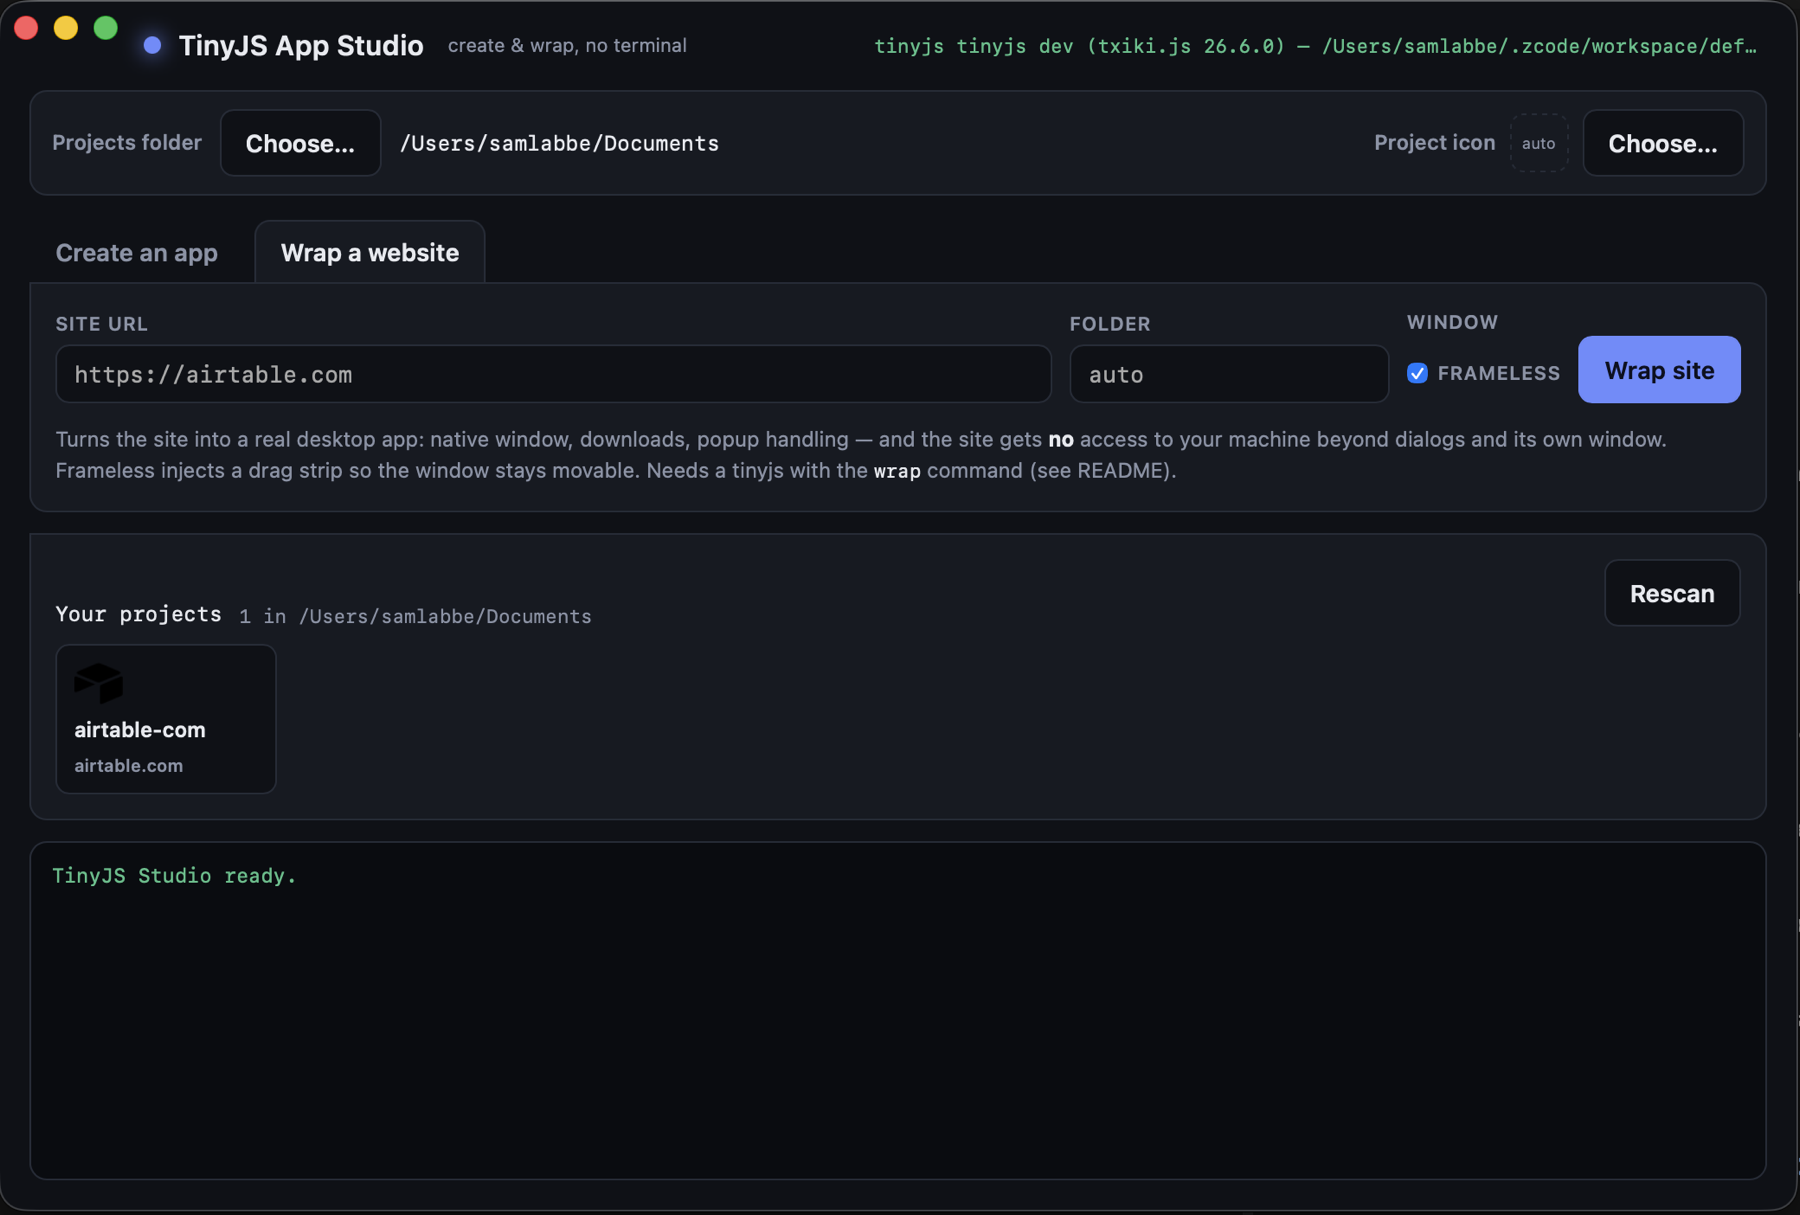
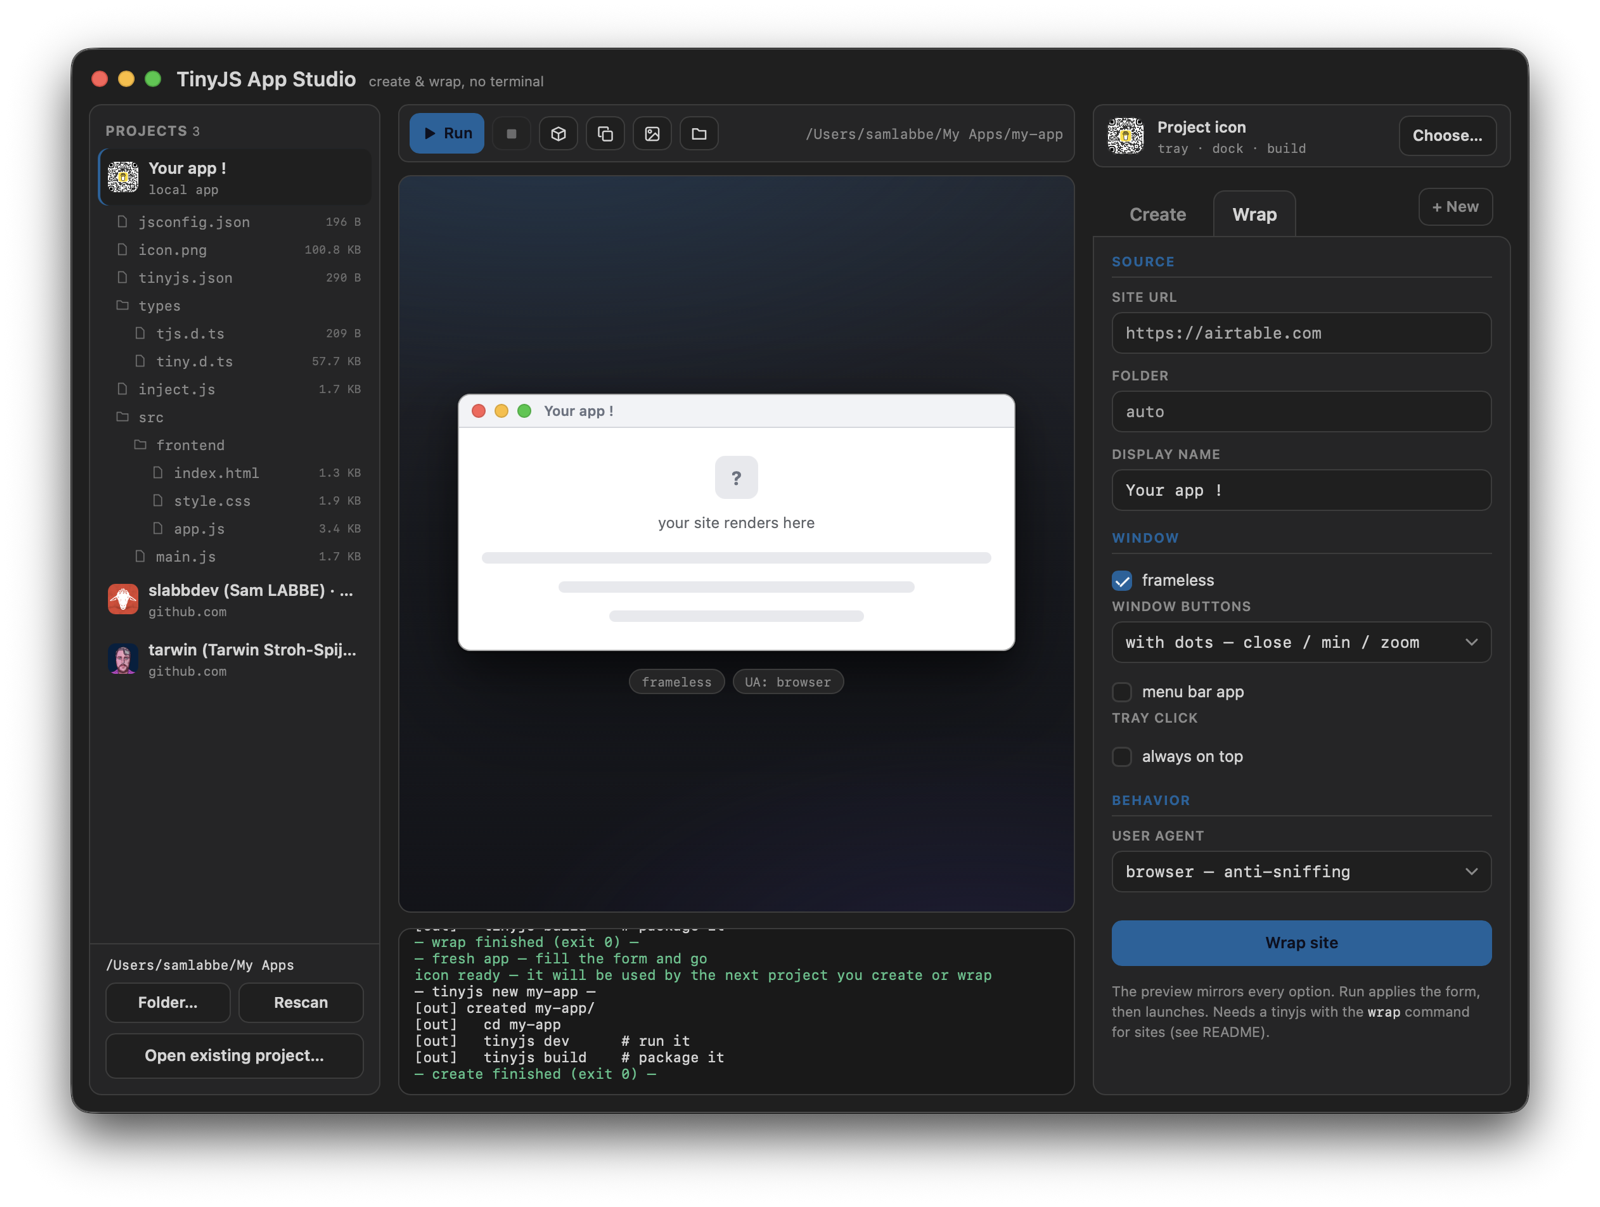
README gallery — 8 captures: wrap preview, live panel, dropdown over GitHub, real wrapped windows, CodeMirror editor, image offcanvas, iPhone mode

diff --git a/README.md b/README.md
@@ -15,8 +15,47 @@ terminal. Built **with** tinyjs itself, which makes it the two things at once:
 Built by [@slabbdev](https://github.com/slabbdev). Not an official tinyjs
 project — just what its author considers the demo tinyjs deserved. 🙂
 
-![TinyJS App Studio — the Wrap a website tab, with a wrapped project in the
-projects strip](screenshot.png)
+![TinyJS App Studio — projects sidebar, live preview, config inspector](screenshot.png)
+
+## See it
+
+**Wrap any site.** Paste a URL, pick your window modes, watch the preview
+mirror every option — then generate a ~6 MB desktop app with its own icon,
+per-origin API gate, downloads and popup handling.
+
+![Wrapping a site — the dropdown panel preview](screenshots/02-wrap-panel-preview.png)
+
+**Menu-bar apps, live.** Menu-bar mode puts a tray icon in the system menu
+bar — click it and a dropdown panel anchored under the icon opens the site
+(tray click can also open a normal window):
+
+![The dropdown panel running over GitHub](screenshots/06-menubar-panel-live.png)
+
+![A wrapped GitHub profile in the panel](screenshots/08-dropdown-panel-live.png)
+
+**Real windows, really wrapped.** The generated apps are ordinary desktop
+windows — frameless or not, with whatever chrome you configured:
+
+![A wrapped GitHub profile in a frameless window](screenshots/07-wrapped-site-live.png)
+
+## The workspace
+
+**Everything in one place.** Projects sidebar (with a file tree per
+project), live preview stage, config inspector — sections Site, Window,
+Behavior.
+
+**The file offcanvas.** Click a file in a project's tree: images open as a
+preview, code files open in an editor with line numbers, code folding and
+syntax highlighting (CodeMirror 6, vendored) — edit and save right there.
+
+![The CodeMirror editor on index.html](screenshots/04-editor-codemirror.png)
+
+![Previewing a generated icon](screenshots/05-image-preview.png)
+
+**iPhone mode.** The iPhone user-agent preset also reshapes the preview
+into a phone frame — you see the mobile layout before you wrap:
+
+![iPhone UA — the preview becomes a phone](screenshots/03-iphone-preview.png)
 
 ## What it does
 
@@ -26,9 +65,12 @@ projects strip](screenshot.png)
   (native window, downloads, popup handling) whose pages get **no** access to
   your machine beyond their own window and dialogs — that gate is tinyjs'
   per-origin API policy, not a Studio promise.
-- **Run, build, stop, reveal** — drive `tinyjs dev` / `tinyjs build` on the
-  project you just made, with every line of the CLI streamed live into the
-  window.
+- **Open an existing project** — point the Studio at any tinyjs project
+  folder anywhere on disk; it joins the sidebar with all its actions, no
+  files moved.
+- **Run, build, stop, duplicate, reveal** — drive `tinyjs dev` / `tinyjs
+  build` on the selected project, with every line of the CLI streamed live
+  into the window.
 
 ## Requirements
 
